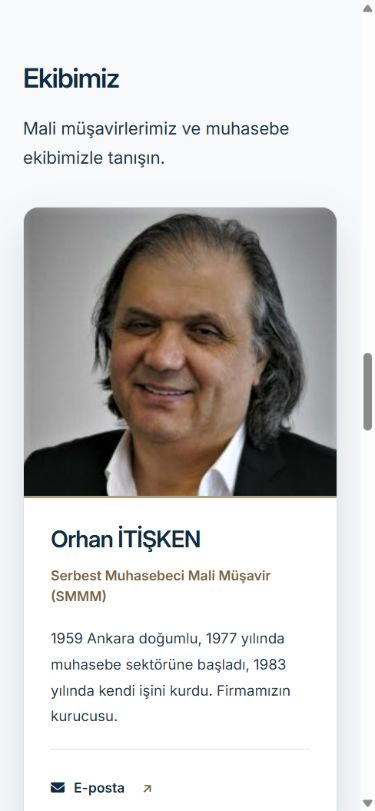
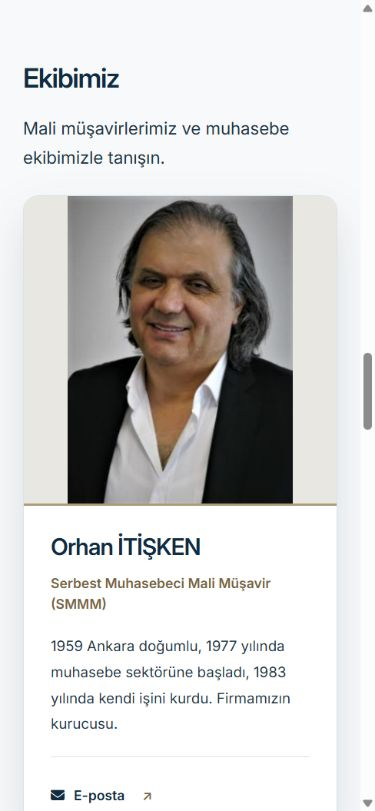
Fix equal team card widths and uncropped mobile portraits

Changed region(s): [[0.0587, 0.2158, 0.9093, 0.9248], [0.1173, 0.9556, 0.352, 1.0], [0.3813, 0.9556, 0.4107, 0.9864]]

diff --git a/docs/ui-ux-refresh/executive-summary.html b/docs/ui-ux-refresh/executive-summary.html
@@ -76,6 +76,7 @@
   </div>
   <h2>Hizmet, ekip ve İngilizce sayfalar</h2>
   <h3>Ekip kartları · 15 Ekim inceleme güncellemesi</h3>
+  <p>Mobil inceleme düzeltmesi: Ekip kartları Bootstrap kolonları yerine eşit genişlikli CSS grid kullanıyor. Mobil ve tablet portrelerinde contain ile fotoğrafın tamamı gösteriliyor; geniş, kısa bir alana yayılarak yüzlerin kırpılması engellendi. JavaScript ile ekip kartı yüksekliği eşitleme kaldırıldı; grid satırları bunu doğal olarak sağlıyor. 320, 390, 742, 768, 980 ve 1280 px genişliklerde dört Türkçe/İngilizce ekip sayfasında 24 kontrolde tüm kartların genişlikleri eşit, yatay taşma yok. <a href="screenshots/after-team-mobile-wide-fixed.jpg">Geniş mobil görünüm</a> · <a href="screenshots/after-team-hasan-mobile-wide-fixed.jpg">Hasan Kemal portresi</a>.</p>
   <p>Ekip kartları daha güçlü bir portre alanı, ince altın ayırıcı, sola hizalı isim ve biyografi ile yenilendi. Unvanın ağırlığı azaltıldı; iletişim alanları kartların altına hizalandı. Her kartta aynı e-posta eylemi var; sosyal bağlantılar ayrı düğmelerde gösteriliyor. Mevcut fotoğraflar ve kişi bilgileri korundu, ilk iki portre yüzleri koruyacak şekilde üstten hizalandı. Hover ve klavye odağında hafif yükselme efekti var; azaltılmış hareket tercihi destekleniyor.</p>
   <figure><img src="screenshots/after-team-cards-desktop.jpg" alt="Yenilenen üç ekip kartı"><figcaption>Yeni ekip kartları · <a href="screenshots/after-team-cards-mobile.jpg">Mobil görünüm</a>. Türkçe ve İngilizce ana sayfa / hakkında sayfasında 320, 390, 768 ve 1280 px genişlikte 16 kontrol; taşma ve bozuk portre yok.</figcaption></figure>
   <p>Tam sayfa ekran görüntüleri: <a href="screenshots/after-services-desktop.jpg">Hizmetler — masaüstü</a>, <a href="screenshots/after-services-mobile.jpg">Hizmetler — mobil</a>, <a href="screenshots/after-about-desktop.jpg">Hakkımızda, ekip ve tarihçe</a>, <a href="screenshots/after-home-en-desktop.jpg">İngilizce — masaüstü</a>, <a href="screenshots/after-home-en-mobile.jpg">İngilizce — mobil</a>, <a href="screenshots/after-home-services.jpg">Ana sayfa hizmet kartları</a>.</p>

diff --git a/src/refresh.css b/src/refresh.css
@@ -78,7 +78,11 @@ img { max-width: 100%; }
 .service-item__detail-body { padding-top: 0; }
 .service-item__detail-body li { margin-bottom: 10px; font-size: 16px; }
 .service-item__title-icon, .contact-details i { color: var(--accent); }
-.team-grid__col { min-width: 0; }
+.about .team-grid { display: grid; grid-template-columns: repeat(3, minmax(0, 1fr)); gap: 24px; margin: 40px 0 0; }
+.about .team-grid > .team-grid__col,
+.about .team-grid > .team-grid__col:first-child,
+.about .team-grid > .team-grid__col:last-child { display: flex; min-width: 0; width: auto; float: none; padding: 0; margin: 0; }
+.about .team-grid .team-card { width: 100%; flex: 1 1 0; }
 .team-card { min-width: 0; height: 100%; display: flex; flex-direction: column; overflow: hidden; border-radius: 16px; border: 1px solid var(--line); background: white; padding: 0; text-align: left; box-shadow: 0 12px 32px rgb(17 44 66 / 7%); transition: transform .25s ease, box-shadow .25s ease; }
 .team-card:hover, .team-card:focus-within { transform: translateY(-4px); box-shadow: 0 22px 44px rgb(17 44 66 / 13%); }
 .team-card__portrait { position: relative; background: #e8e7e2; border-bottom: 3px solid #ae9d7a; }
@@ -113,6 +117,8 @@ img { max-width: 100%; }
 .footer .footer-about, .footer .footer-link { padding: 0; }
 .footer-logo { background: white; width: 200px; padding: 8px; border-radius: 6px; }
 @media (max-width: 991.98px) {
+  .about .team-grid { grid-template-columns: repeat(2, minmax(0, 1fr)); }
+  .about .team-card .team-card__image { height: 320px; object-fit: contain; }
   .header .row { display: block; }
   .header .col-lg-2, .header .col-lg-10 { max-width: 100%; width: 100%; }
   .header__brand { display: block; text-align: center; }
@@ -137,7 +143,7 @@ img { max-width: 100%; }
   .header .topbar { gap: 8px 12px; }
   .header .topbar .topbar-col { padding: 0; }
   .section-header { margin-bottom: 28px; }
-  .team-grid { margin-top: 24px; }
+  .about .team-grid { grid-template-columns: minmax(0, 1fr); margin-top: 24px; }
   .news iframe { margin-bottom: 24px; height: 280px; }
   .practice-timeline li { grid-template-columns: 58px 1fr; gap: 16px; }
   .footer { padding: 40px 24px 0; }

diff --git a/src/pages/AboutPage.tsx b/src/pages/AboutPage.tsx
@@ -8,7 +8,6 @@ import { useSite } from '../data/site'
 import { useTeamMembers } from '../data/team'
 import { getRoutePath, useCurrentLanguage } from '../i18n/routing'
 import { useLocale } from '../i18n/useLocale'
-import { useEqualHeightRows } from '../hooks/useEqualHeightRows'
 import { withBasePath } from '../utils/paths'
 
 export function AboutPage() {
@@ -16,7 +15,6 @@ export function AboutPage() {
   const { t } = useLocale()
   const site = useSite()
   const teamMembers = useTeamMembers()
-  const teamGridRef = useEqualHeightRows<HTMLDivElement>('.team-card')
   const aboutPath = getRoutePath('about', language)
 
   return (
@@ -47,7 +45,7 @@ export function AboutPage() {
 
       <StatsStrip />
 
-      <div className="about" id="team" ref={teamGridRef}>
+      <div className="about" id="team">
         <div className="container-fluid">
           <SectionHeader
             centered

diff --git a/src/components/team/TeamGrid.tsx b/src/components/team/TeamGrid.tsx
@@ -10,10 +10,10 @@ export function TeamGrid({ members }: TeamGridProps) {
   const { t } = useLocale()
 
   return (
-    <div className="row team-grid justify-content-start" style={{ marginTop: '40px' }}>
+    <div className="team-grid">
       {members.map((member) => {
         return (
-          <div key={member.id} className="col-lg-4 col-md-6 d-flex team-grid__col">
+          <div key={member.id} className="team-grid__col">
             <article className="team-card h-100 w-100">
               <div className="team-card__portrait">
               <img
